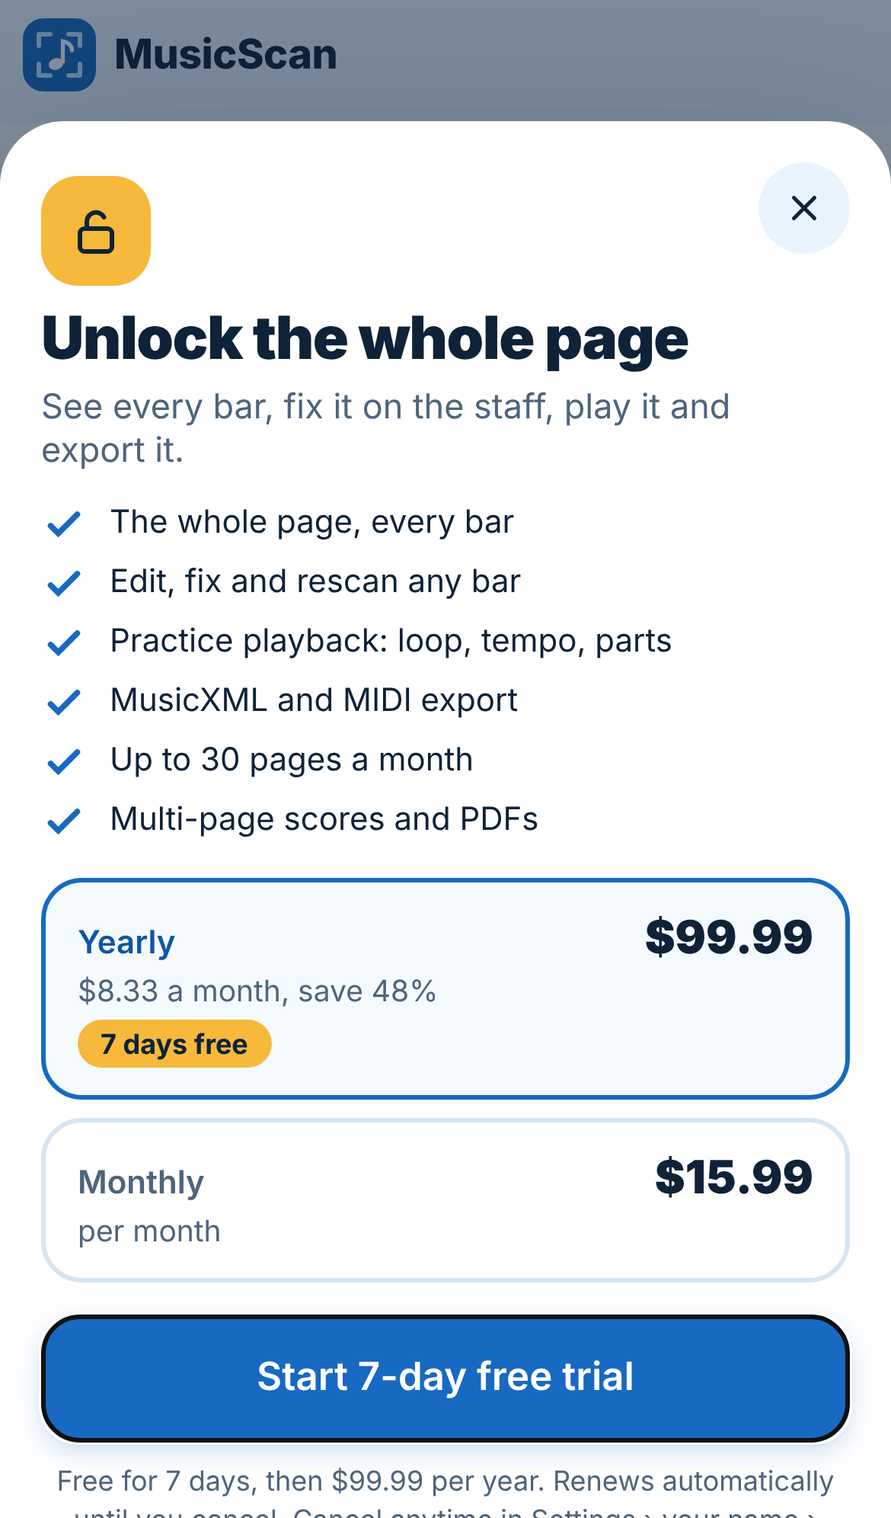
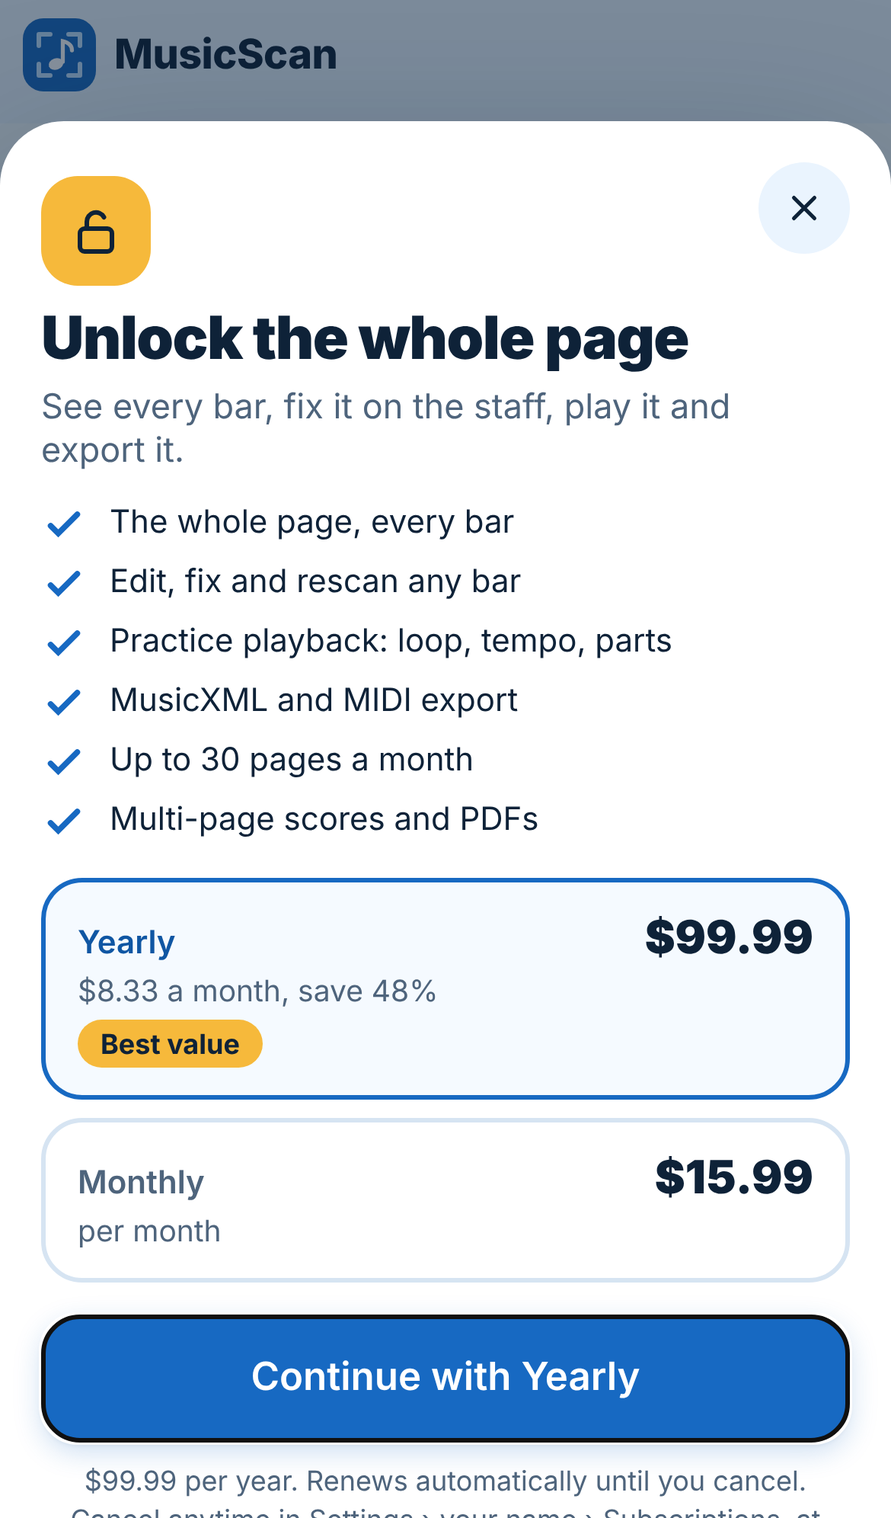
No free trial: the free page is the free offer
Removes the 7-day yearly trial from the paywall (button, badge, terms), its test, SPEC, the Sky wireframes and
screens, the design README, the agent prompts and the deploy notes (don't create an introductory offer).

Claude-Session: https://claude.ai/code/session_01KFLYEj32kXP9GqZWdb19pk

Changed region(s): [[0.0615, 0.9649, 0.9231, 1.0], [0.2769, 0.8715, 0.7077, 0.9337], [0.1231, 0.6536, 0.3077, 0.7159]]

diff --git a/web/js/paywall.js b/web/js/paywall.js
@@ -6,7 +6,7 @@
 //   - After that, a scan without Pro opens as a preview: the first half of the page is shown, the rest is blurred, and
 //     editing, playback and export ask to unlock. Going Pro unlocks the whole page and everything else.
 //   - Pro: $15.99 a month or $99.99 a year, about 30 pages a month. No weekly plan.
-//   - Yearly starts with a 7-day free trial (a StoreKit introductory offer: once per Apple ID, new subscribers only).
+//   - No free trial: the free page is the free offer. Don't set up an introductory offer in App Store Connect.
 //
 // It is OFF by default, so everything keeps working for everyone. Turn it on to review it:
 //   ?paywall in the URL (remembered), or localStorage 'musicscan:paywall' = '1'; ?paywall=off turns it off again.
@@ -14,9 +14,6 @@
 //
 // Before payments go live (App Store Review Guidelines 3.1.1, 3.1.2, 5.1.1):
 //   - Buy through StoreKit 2 In-App Purchase, both plans in ONE subscription group so monthly -> yearly is an upgrade.
-//   - The trial is an introductory offer set on the yearly product in App Store Connect. Ask StoreKit
-//     (Product.SubscriptionInfo.isEligibleForIntroOffer) and set introEligible() from it: someone who already had a
-//     trial must see the plain price, never a trial they can't get (guideline 3.1.2).
 //   - Check entitlements on the server (App Store Server API + notifications). The server, not this file, decides what
 //     a scan returns: for a preview it should send only the first half of the reading, because anything sent to the
 //     browser can be read out of it. Count pages on the server too.
@@ -29,7 +26,7 @@ export const PLAN = {
   sub: 'See every bar, fix it on the staff, play it and export it.',
   features: ['The whole page, every bar', 'Edit, fix and rescan any bar', 'Practice playback: loop, tempo, parts', 'MusicXML and MIDI export', `Up to 30 pages a month`, 'Multi-page scores and PDFs'],
   plans: [
-    { id: 'year', name: 'Yearly', price: '$99.99', period: 'year', per: '$8.33 a month, save 48%', badge: 'Best value', trialDays: 7 },
+    { id: 'year', name: 'Yearly', price: '$99.99', period: 'year', per: '$8.33 a month, save 48%', badge: 'Best value' },
     { id: 'month', name: 'Monthly', price: '$15.99', period: 'month', per: 'per month' },
   ],
   defaultPlan: 'year',
@@ -37,7 +34,7 @@ export const PLAN = {
   privacyUrl: '', // required before App Review: a public privacy policy page
 };
 
-const K = { on: 'musicscan:paywall', pro: 'musicscan:pro', pages: 'musicscan:pages', free: 'musicscan:freeUsed', access: 'musicscan:access', trial: 'musicscan:hadTrial' };
+const K = { on: 'musicscan:paywall', pro: 'musicscan:pro', pages: 'musicscan:pages', free: 'musicscan:freeUsed', access: 'musicscan:access' };
 const get = (k) => { try { return localStorage.getItem(k); } catch (e) { return null; } };
 const set = (k, v) => { try { v == null ? localStorage.removeItem(k) : localStorage.setItem(k, v); } catch (e) { /* blocked */ } };
 const month = () => new Date().toISOString().slice(0, 7);
@@ -51,9 +48,6 @@ const month = () => new Date().toISOString().slice(0, 7);
 export const enabled = () => get(K.on) === '1';
 export const isPro = () => get(K.pro) === '1';
 export const freeLeft = () => (get(K.free) ? 0 : PLAN.freePages);
-// whether this person can still get the free trial (preview: yes until they've gone Pro once on this device)
-export const introEligible = () => get(K.pro) == null && get(K.trial) == null;
-const trialOf = (p) => (p.trialDays && introEligible() ? p.trialDays : 0);
 
 // pages read this calendar month (the Pro allowance; the real count belongs on the server)
 export function pagesUsed() {
@@ -82,10 +76,7 @@ const CHECK = '<svg viewBox="0 0 24 24" width="20" height="20" fill="none" strok
 
 function render(reason) {
   const plan = PLAN.plans.find((p) => p.id === chosen);
-  const trial = trialOf(plan);
-  const terms = trial
-    ? `Free for ${trial} days, then ${plan.price} per ${plan.period}. Renews automatically until you cancel. Cancel anytime in Settings › your name › Subscriptions, at least 24 hours before the trial ends, and you won't be charged. Payment is charged to your Apple ID when the trial ends.`
-    : `${plan.price} per ${plan.period}. Renews automatically until you cancel. Cancel anytime in Settings › your name › Subscriptions, at least 24 hours before it renews. Payment is charged to your Apple ID.`;
+  const terms = `${plan.price} per ${plan.period}. Renews automatically until you cancel. Cancel anytime in Settings › your name › Subscriptions, at least 24 hours before it renews. Payment is charged to your Apple ID.`;
   el.innerHTML = `
     <div class="pw-card" role="dialog" aria-modal="true" aria-labelledby="pwTitle">
       <button class="pw-close" aria-label="Not now"><svg viewBox="0 0 24 24" width="18" height="18" fill="none" stroke="currentColor" stroke-width="2.2" stroke-linecap="round" aria-hidden="true"><path d="M6 6l12 12M18 6L6 18"/></svg></button>
@@ -96,20 +87,16 @@ function render(reason) {
       <ul class="pw-features">${PLAN.features.map((f) => `<li>${CHECK}${esc(f)}</li>`).join('')}</ul>
       <div class="pw-plans" role="radiogroup" aria-label="Plan" style="--n: ${PLAN.plans.length}">${PLAN.plans.map((p) => `
         <button class="pw-plan${p.id === chosen ? ' on' : ''}" role="radio" aria-checked="${p.id === chosen}" data-plan="${p.id}">
-          ${trialOf(p) || p.badge ? `<span class="pw-best">${trialOf(p) ? `${trialOf(p)} days free` : esc(p.badge)}</span>` : ''}<span class="pw-name">${esc(p.name)}</span><span class="pw-price">${esc(p.price)}</span><span class="pw-per">${esc(p.per)}</span>
+          ${p.badge ? `<span class="pw-best">${esc(p.badge)}</span>` : ''}<span class="pw-name">${esc(p.name)}</span><span class="pw-price">${esc(p.price)}</span><span class="pw-per">${esc(p.per)}</span>
         </button>`).join('')}</div>
-      <button class="btn primary pw-go">${trial ? `Start ${trial}-day free trial` : `Continue with ${esc(plan.name)}`}</button>
+      <button class="btn primary pw-go">Continue with ${esc(plan.name)}</button>
       <p class="pw-terms">${esc(terms)}</p>
       <div class="pw-foot"><span>${PLAN.termsUrl ? `<a class="pw-link" href="${esc(PLAN.termsUrl)}" target="_blank" rel="noopener">Terms of Use</a>` : ''}${PLAN.privacyUrl ? ` · <a class="pw-link" href="${esc(PLAN.privacyUrl)}" target="_blank" rel="noopener">Privacy Policy</a>` : ''}</span><span><button class="pw-link" data-a="restore">Restore purchases</button></span></div>
       <div class="pw-preview">Preview: payments aren't connected yet, so nothing is charged.</div>
     </div>`;
   el.querySelector('.pw-close').onclick = () => close(false);
   for (const b of el.querySelectorAll('[data-plan]')) b.onclick = () => { chosen = b.dataset.plan; render(reason); el.querySelector(`[data-plan="${chosen}"]`).focus(); };
-  el.querySelector('.pw-go').onclick = () => {
-    set(K.pro, '1');
-    if (trial) set(K.trial, '1');
-    close(true, trial ? `Your ${trial}-day free trial has started (preview, nothing is charged).` : 'Pro is on for this preview. No payment was taken.');
-  };
+  el.querySelector('.pw-go').onclick = () => { set(K.pro, '1'); close(true, 'Pro is on for this preview. No payment was taken.'); };
   el.querySelector('[data-a=restore]').onclick = () => close(isPro(), isPro() ? 'Pro is already on.' : 'No purchase to restore on this device.');
 }
 

diff --git a/tests/paywall.js b/tests/paywall.js
@@ -76,9 +76,9 @@ function serve() {
   await p.screenshot({ path: path.join(OUT, 'ipad_paywall.png') });
   const plans = await p.$$eval('.pw-plan', (xs) => xs.map((x) => x.querySelector('.pw-price').textContent));
   ok(plans.join() === '$99.99,$15.99', `two plans, no weekly (${plans.join(' ')})`);
-  ok(/Start 7-day free trial/.test(await p.locator('.pw-go').textContent()), 'Yearly is picked by default and offers the 7-day trial');
-  ok(/Free for 7 days, then \$99\.99 per year\. Renews automatically.*before the trial ends/.test(await p.locator('.pw-terms').textContent()), 'trial terms say the length, the price after and how to cancel');
-  ok(/7 days free/.test(await p.locator('.pw-plan[data-plan="year"] .pw-best').textContent()), 'the yearly card says 7 days free');
+  ok(/Continue with Yearly/.test(await p.locator('.pw-go').textContent()), 'Yearly is picked by default');
+  ok(/^\$99\.99 per year\. Renews automatically/.test(await p.locator('.pw-terms').textContent()), 'renewal terms shown with the price');
+  ok(!/trial/i.test(await p.locator('.pw-card').textContent()), 'no free trial anywhere on the sheet');
   ok(await p.locator('.pw-foot a', { hasText: 'Terms of Use' }).count() === 1 && await p.locator('[data-a=restore]').count() === 1, 'Terms of Use and Restore purchases are on the sheet');
   await tap('.pw-plan[data-plan="month"]');
   ok(/Monthly/.test(await p.locator('.pw-go').textContent()) && /\$15\.99 per month/.test(await p.locator('.pw-terms').textContent()), 'tapping a plan picks it and updates the terms');
@@ -97,19 +97,10 @@ function serve() {
   ok((await sheet()) === 1 && await p.locator('#exportMenu.open').count() === 0, 'Export asks to unlock');
   await tap('.pw-go');
   await p.waitForTimeout(500);
-  ok((await sheet()) === 0 && await p.evaluate(() => window.__ms.paywall.isPro()), 'Starting the trial unlocks the preview');
-  ok(/7-day free trial has started/.test(await p.locator('#toast').textContent()), 'says the trial started');
+  ok((await sheet()) === 0 && await p.evaluate(() => window.__ms.paywall.isPro()), 'Continue unlocks the preview');
   ok(await p.locator('#lockVeil').count() === 0, 'the whole page shows after unlocking');
   dl = await exportXml();
   ok(!!dl, 'after unlocking the export goes through');
-
-  // a trial is once only: after it, the sheet shows the plain price
-  await p.evaluate(() => localStorage.removeItem('musicscan:pro'));
-  await p.evaluate(() => { window.__ms.paywall.show(); });
-  await p.waitForTimeout(300);
-  ok(/Continue with Yearly/.test(await p.locator('.pw-go').textContent()) && /^\$99\.99 per year/.test(await p.locator('.pw-terms').textContent()), 'no second trial: plain price after a trial was used');
-  await tap('.pw-go');
-  await p.waitForTimeout(300);
 
   // 4. Pro allowance: 30 pages a month
   await tap('#btnNew');

diff --git a/design/sky/source/iPad-8-Paywall.dc.html b/design/sky/source/iPad-8-Paywall.dc.html
@@ -36,11 +36,11 @@ a{color:#0F56A3}a:hover{color:#0E2238}
 <div class="li"><svg width="20" height="20" viewBox="0 0 24 24" fill="none" stroke="#1769C2" stroke-width="3" stroke-linecap="round" aria-hidden="true"><path d="M5 12l4 4 10-10"/></svg>Multi-page scores and PDFs</div>
 </div>
 <div style="display:grid;grid-template-columns:repeat(2,minmax(0,1fr));gap:12px">
-<button class="plan on"><span style="position:absolute;top:-12px;right:12px;padding:3px 10px;border-radius:99px;background:#F6B93B;font-size:12px;font-weight:700">7 days free</span><span style="font-size:14px;font-weight:600;color:#0F56A3">Yearly</span><span class="disp" style="font-size:26px;font-weight:900">$99.99</span><span style="font-size:13px;color:#4E647C">$8.33 a month, save 48%</span></button>
+<button class="plan on"><span style="position:absolute;top:-12px;right:12px;padding:3px 10px;border-radius:99px;background:#F6B93B;font-size:12px;font-weight:700">Best value</span><span style="font-size:14px;font-weight:600;color:#0F56A3">Yearly</span><span class="disp" style="font-size:26px;font-weight:900">$99.99</span><span style="font-size:13px;color:#4E647C">$8.33 a month, save 48%</span></button>
 <button class="plan"><span style="font-size:14px;font-weight:600;color:#4E647C">Monthly</span><span class="disp" style="font-size:26px;font-weight:900">$15.99</span><span style="font-size:13px;color:#4E647C">per month</span></button>
 </div>
-<button class="btn" style="background:#1769C2;color:#FFFFFF">Start 7-day free trial</button>
-<div style="display:flex;justify-content:space-between;font-size:13px;color:#4E647C"><span>Free for 7 days, then $99.99 a year. Renews until you cancel.</span><span><a href="#">Restore</a> · <a href="#">Terms</a></span></div>
+<button class="btn" style="background:#1769C2;color:#FFFFFF">Continue with Yearly</button>
+<div style="display:flex;justify-content:space-between;font-size:13px;color:#4E647C"><span>$99.99 a year. Renews until you cancel.</span><span><a href="#">Restore</a> · <a href="#">Terms</a></span></div>
 </div>
 </div>
 </x-dc>

diff --git a/design/sky/wireframes/iPad-8-Paywall.html b/design/sky/wireframes/iPad-8-Paywall.html
@@ -33,11 +33,11 @@ a{color:#0F56A3}a:hover{color:#0E2238}
 <div class="li"><svg width="20" height="20" viewBox="0 0 24 24" fill="none" stroke="#1769C2" stroke-width="3" stroke-linecap="round" aria-hidden="true"><path d="M5 12l4 4 10-10"/></svg>Multi-page scores and PDFs</div>
 </div>
 <div style="display:grid;grid-template-columns:repeat(2,minmax(0,1fr));gap:12px">
-<button class="plan on"><span style="position:absolute;top:-12px;right:12px;padding:3px 10px;border-radius:99px;background:#F6B93B;font-size:12px;font-weight:700">7 days free</span><span style="font-size:14px;font-weight:600;color:#0F56A3">Yearly</span><span class="disp" style="font-size:26px;font-weight:900">$99.99</span><span style="font-size:13px;color:#4E647C">$8.33 a month, save 48%</span></button>
+<button class="plan on"><span style="position:absolute;top:-12px;right:12px;padding:3px 10px;border-radius:99px;background:#F6B93B;font-size:12px;font-weight:700">Best value</span><span style="font-size:14px;font-weight:600;color:#0F56A3">Yearly</span><span class="disp" style="font-size:26px;font-weight:900">$99.99</span><span style="font-size:13px;color:#4E647C">$8.33 a month, save 48%</span></button>
 <button class="plan"><span style="font-size:14px;font-weight:600;color:#4E647C">Monthly</span><span class="disp" style="font-size:26px;font-weight:900">$15.99</span><span style="font-size:13px;color:#4E647C">per month</span></button>
 </div>
-<button class="btn" style="background:#1769C2;color:#FFFFFF">Start 7-day free trial</button>
-<div style="display:flex;justify-content:space-between;font-size:13px;color:#4E647C"><span>Free for 7 days, then $99.99 a year. Renews until you cancel.</span><span><a href="#">Restore</a> · <a href="#">Terms</a></span></div>
+<button class="btn" style="background:#1769C2;color:#FFFFFF">Continue with Yearly</button>
+<div style="display:flex;justify-content:space-between;font-size:13px;color:#4E647C"><span>$99.99 a year. Renews until you cancel.</span><span><a href="#">Restore</a> · <a href="#">Terms</a></span></div>
 </div>
 </div>
 </body>

diff --git a/design/sky/source/iPhone-5-Paywall.dc.html b/design/sky/source/iPhone-5-Paywall.dc.html
@@ -31,11 +31,11 @@ a{color:#0F56A3}a:hover{color:#0E2238}
 <div class="li"><svg width="18" height="18" viewBox="0 0 24 24" fill="none" stroke="#1769C2" stroke-width="3" stroke-linecap="round" aria-hidden="true"><path d="M5 12l4 4 10-10"/></svg>Up to 30 pages a month</div>
 </div>
 <div style="display:flex;flex-direction:column;gap:8px;margin-top:auto">
-<button class="plan on"><span class="rad" style="border:6px solid #1769C2"></span><span style="flex:1"><b>Yearly</b><br><span style="font-size:13px;color:#4E647C">$99.99 a year · $8.33 a month</span></span><span style="padding:3px 8px;border-radius:99px;background:#F6B93B;font-size:11px;font-weight:700">7 days free</span></button>
+<button class="plan on"><span class="rad" style="border:6px solid #1769C2"></span><span style="flex:1"><b>Yearly</b><br><span style="font-size:13px;color:#4E647C">$99.99 a year · $8.33 a month</span></span><span style="padding:3px 8px;border-radius:99px;background:#F6B93B;font-size:11px;font-weight:700">Best value</span></button>
 <button class="plan"><span class="rad"></span><span style="flex:1"><b>Monthly</b><br><span style="font-size:13px;color:#4E647C">$15.99 a month</span></span></button>
 </div>
-<button style="height:56px;border-radius:16px;border:0;background:#1769C2;color:#FFFFFF;font:700 17px Inter,system-ui,sans-serif">Start 7-day free trial</button>
-<div style="text-align:center;font-size:12px;color:#4E647C">Free for 7 days, then $99.99 a year. <a href="#">Restore</a> · <a href="#">Terms</a></div>
+<button style="height:56px;border-radius:16px;border:0;background:#1769C2;color:#FFFFFF;font:700 17px Inter,system-ui,sans-serif">Continue with Yearly</button>
+<div style="text-align:center;font-size:12px;color:#4E647C">$99.99 a year, renews until you cancel. <a href="#">Restore</a> · <a href="#">Terms</a></div>
 </div>
 </x-dc>
 <script type="text/x-dc" data-dc-script data-props='{"$preview":{"width":390,"height":844}}'>

diff --git a/design/sky/wireframes/iPhone-5-Paywall.html b/design/sky/wireframes/iPhone-5-Paywall.html
@@ -28,11 +28,11 @@ a{color:#0F56A3}a:hover{color:#0E2238}
 <div class="li"><svg width="18" height="18" viewBox="0 0 24 24" fill="none" stroke="#1769C2" stroke-width="3" stroke-linecap="round" aria-hidden="true"><path d="M5 12l4 4 10-10"/></svg>Up to 30 pages a month</div>
 </div>
 <div style="display:flex;flex-direction:column;gap:8px;margin-top:auto">
-<button class="plan on"><span class="rad" style="border:6px solid #1769C2"></span><span style="flex:1"><b>Yearly</b><br><span style="font-size:13px;color:#4E647C">$99.99 a year · $8.33 a month</span></span><span style="padding:3px 8px;border-radius:99px;background:#F6B93B;font-size:11px;font-weight:700">7 days free</span></button>
+<button class="plan on"><span class="rad" style="border:6px solid #1769C2"></span><span style="flex:1"><b>Yearly</b><br><span style="font-size:13px;color:#4E647C">$99.99 a year · $8.33 a month</span></span><span style="padding:3px 8px;border-radius:99px;background:#F6B93B;font-size:11px;font-weight:700">Best value</span></button>
 <button class="plan"><span class="rad"></span><span style="flex:1"><b>Monthly</b><br><span style="font-size:13px;color:#4E647C">$15.99 a month</span></span></button>
 </div>
-<button style="height:56px;border-radius:16px;border:0;background:#1769C2;color:#FFFFFF;font:700 17px Inter,system-ui,sans-serif">Start 7-day free trial</button>
-<div style="text-align:center;font-size:12px;color:#4E647C">Free for 7 days, then $99.99 a year. <a href="#">Restore</a> · <a href="#">Terms</a></div>
+<button style="height:56px;border-radius:16px;border:0;background:#1769C2;color:#FFFFFF;font:700 17px Inter,system-ui,sans-serif">Continue with Yearly</button>
+<div style="text-align:center;font-size:12px;color:#4E647C">$99.99 a year, renews until you cancel. <a href="#">Restore</a> · <a href="#">Terms</a></div>
 </div>
 </body>
 </html>

diff --git a/docs/AGENT_PROMPTS.md b/docs/AGENT_PROMPTS.md
@@ -33,8 +33,8 @@ Product facts (do not change without asking Allen):
   shown inside a native SwiftUI shell on iOS (WKWebView). Reading runs on the server (Python, copisteria).
 - Scope: printed music only. Piano (treble + bass grand staff) and single-staff parts, row by row. Choir/SATB:
   keep what works, no new effort. Lyrics: skipped for now.
-- Pricing: MusicScan Pro $15.99 a month or $99.99 a year (7-day free trial on the yearly plan, intro-offer
-  eligible users only), up to 30 pages a month. New users get 1 free page with every feature. After that a scan
+- Pricing: MusicScan Pro $15.99 a month or $99.99 a year, no free trial (the 1 free page is
+  the free offer), up to 30 pages a month. New users get 1 free page with every feature. After that a scan
   shows the first half of the page and blurs the rest; editing, playback and export ask to unlock. Must follow
   Apple's App Review Guidelines (StoreKit in-app purchase, Restore Purchases, clear terms and privacy policy).
 - Design: the "Sky" light blue system in design/sky/ (README.md is the entry point, tokens.json the values).
@@ -162,13 +162,13 @@ Your stream: turning the paywall UI into real purchases that pass App Review. Yo
 object holds prices and copy), new ios/MusicScan/Store*.swift files, a new server/billing.py and docs/legal/.
 Today the paywall is UI only and off unless the URL has ?paywall.
 
-The plan (decided by Allen): Pro $15.99 a month or $99.99 a year, 7-day free trial on the yearly plan for
-intro-offer eligible users, up to 30 pages a month. 1 free page with every feature for new users; after that a scan
+The plan (decided by Allen): Pro $15.99 a month or $99.99 a year, no free trial and no introductory offer
+(the free page is the free offer), up to 30 pages a month. 1 free page with every feature for new users; after that a scan
 previews the first half of the page and blurs the rest, and editing, playback and export ask to unlock.
 
 Jobs:
 1. StoreKit 2 in the iOS app: two auto-renewable subscriptions in one group, a StoreKit configuration file for the
-   simulator, purchase, Restore Purchases, manage subscription, intro-offer eligibility for the trial badge.
+   simulator, purchase, Restore Purchases, manage subscription.
    Pass the entitlement to the web editor through native.js (one small bridge message).
 2. Server check: App Store Server API / signed transaction verification in server/billing.py; the page counter
    (30 a month) lives on the server keyed by the install id from Stream 4.
@@ -176,7 +176,7 @@ Jobs:
    on the paywall, no dark patterns, the free page really includes every feature.
 4. Web: keep the paywall off on the web unless a flag is set; no card payments on the web for now.
 
-Done when: a sandbox purchase, restore and trial work on a simulator with the StoreKit config; tests/paywall.js
+Done when: a sandbox purchase and restore work on a simulator with the StoreKit config; tests/paywall.js
 passes; docs/legal/ has the two pages; a checklist of the relevant App Review guidelines (3.1.1, 3.1.2, 5.1.1) is
 in docs/legal/REVIEW_CHECKLIST.md with each item ticked or explained.
 ```

diff --git a/design/sky/README.md b/design/sky/README.md
@@ -41,7 +41,7 @@ Run a test with `NODE_PATH=$(npm root -g) node tests/<name>.js`.
 ## Notes for iOS
 
 - Capture on iOS should keep VisionKit's document camera. The live photo check in `capture.js` is for the web; its thresholds (sharpness, paper brightness, fill and motion) are a starting point if you add a check before upload.
-- Plans (Allen, 2026-11-26): Pro $15.99 a month or $99.99 a year (default, "Best value", 7-day free trial for intro-offer eligible users), up to 30 pages a month. New users get 1 free page with every feature; after that a scan previews the first half of the page and blurs the rest, and editing, playback and export ask to unlock. No weekly plan. Payments are not connected yet (see docs/AGENT_PROMPTS.md, Stream 5).
+- Plans (Allen, 2026-11-26): Pro $15.99 a month or $99.99 a year (default, "Best value"; no free trial, the 1 free page is the free offer), up to 30 pages a month. New users get 1 free page with every feature; after that a scan previews the first half of the page and blurs the rest, and editing, playback and export ask to unlock. No weekly plan. Payments are not connected yet (see docs/AGENT_PROMPTS.md, Stream 5).
 - The paywall wireframes (iPad 8, iPhone 5) and the free-page notes on Welcome and Library match these plans. The paywall shots in `screens/` show the built sheet, and `half_page_preview_ipad.png` shows the blurred half-page preview. `PLAN` in `web/js/paywall.js` is the source of truth for prices and copy.
 - On iPhone the editor puts durations in a bottom bar and the paywall is a bottom sheet. On iPad the photo sits beside the score.
 

diff --git a/SPEC.md b/SPEC.md
@@ -15,7 +15,7 @@ One paid plan, **MusicScan Pro**, as an Apple auto-renewing subscription (no wee
 | --- | --- | --- |
 | Free | $0 | 1 full page with every feature for new users; after that each scan previews the first half of the page and blurs the rest, and edit / play / export ask to unlock |
 | Pro monthly | $15.99 / month | up to 30 pages a month, whole pages, editing, rescans, practice playback, export, multi-page scores |
-| Pro yearly | $99.99 / year ($8.33 / month) | the same, with a 7-day free trial for intro-offer eligible users |
+| Pro yearly | $99.99 / year ($8.33 / month) | the same, $8.33 a month (no free trial: the free page is the free offer) |
 
 Built: the paywall UI (`web/js/paywall.js`, `PLAN` holds prices and copy; off unless `?paywall`). To do before App
 Review: StoreKit 2 purchase / restore / manage, server-side entitlement check and page counting, the server sending

diff --git a/deploy/README.md b/deploy/README.md
@@ -175,5 +175,5 @@ tokens with the legacy secret (then add `SUPABASE_JWT_SECRET` to the Modal secre
 Apple configuration also needs `APPLE_BUNDLE_ID` and numeric `APPLE_APP_ID` in the server secret. Add a Superwall
 public SDK key to the iOS app (never a Superwall secret key). The auth/sign-in stream owns Supabase session creation
 and exposing its user UUID plus access token to this purchase flow. StoreKit configuration and the StoreKit products
-must use `com.musicscan.pro.monthly` and `com.musicscan.pro.yearly`; create the 7-day introductory offer on the yearly
-product and route the app's paywall placements to the Superwall paywall.
+must use `com.musicscan.pro.monthly` and `com.musicscan.pro.yearly`; don't create an introductory offer (no free trial;
+the free page is the free offer) and route the app's paywall placements to the Superwall paywall.
